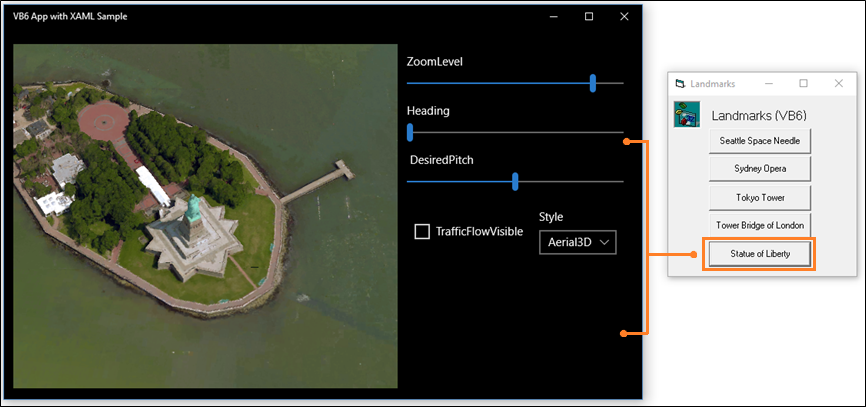
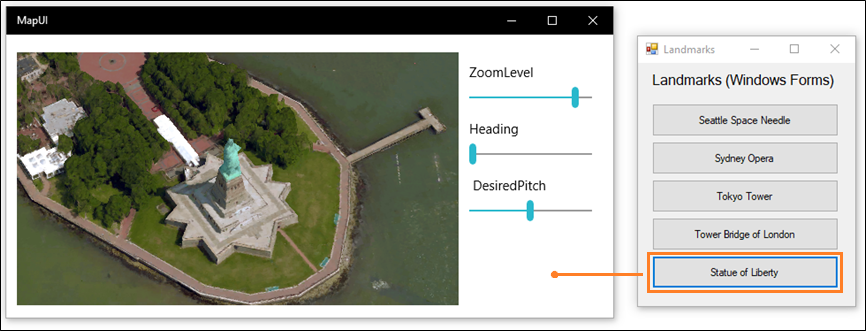
Merged PR 8934: Clarifying the XAML UI scenario by creating a  new sample and updating the guide

diff --git a/windows-apps-src/porting/desktop-to-uwp-extend.md b/windows-apps-src/porting/desktop-to-uwp-extend.md
@@ -4,7 +4,7 @@ Description: Extend your desktop application with Windows UIs and components
 Search.Product: eADQiWindows 10XVcnh
 title: Extend your desktop application with Windows UIs and components
 ms.author: normesta
-ms.date: 03/22/2018
+ms.date: 06/08/2018
 ms.topic: article
 ms.prod: windows
 ms.technology: uwp
@@ -22,6 +22,8 @@ In many cases you can call UWP APIs directly from your desktop application, so b
 >This guide assumes that you've created a Windows app package for your desktop application by using the Desktop Bridge. If you haven't yet done this, see [Desktop Bridge](desktop-to-uwp-root.md).
 
 If you're ready, let's start.
+
+<a id="setup" />
 
 ## First, setup your Solution
 
@@ -73,27 +75,63 @@ As part of your application flow, you can incorporate modern XAML-based user int
 
 For example, with a small amount of XAML markup, you can give users with powerful map-related visualization features.
 
-This image shows a VB6 application that opens a XAML-based modern UI that contains a map control.
+This image shows a Windows Forms application that opens a XAML-based modern UI that contains a map control.
 
 ![adaptive-design](images/desktop-to-uwp/extend-xaml-ui.png)
-
-### Have a closer look at this app
-
-:heavy_check_mark: [Get the app](https://www.microsoft.com/en-us/store/p/vb6-app-with-xaml-sample/9n191ncxf2f6)
-
-:heavy_check_mark: [Browse the code](https://github.com/Microsoft/DesktopBridgeToUWP-Samples/tree/master/Samples/VB6withXaml)
 
 ### The design pattern
 
 To show a XAML-based UI, do these things:
 
-:one: [Add a protocol extension to that project](#protocol)
+:one: [Setup your Solution](#solution-setup)
 
-:two: [Start the UWP app from your desktop app](#start)
+:two: [Create a XAML UI](#xaml-UI)
 
-:three: [In the UWP project, show the page that you want](#parse)
+:three: [Add a protocol extension to the UWP project](#protocol)
 
-<a id="protocol" />
+:four: [Start the UWP app from your desktop app](#start)
+
+:five: [In the UWP project, show the page that you want](#parse)
+
+<a id="solution-setup" />
+
+### Setup your Solution
+
+For general guidance on how to set your solution up, see the [First, setup your Solution](#setup) section at the beginning of this guide.
+
+Your solution would look something like this:
+
+![XAML UI Solution](images/desktop-to-uwp/xaml-ui-solution.png)
+
+In this example, the Windows Forms project is named **Landmarks** and the UWP project that contains the XAML UI is named **MapUI**.
+
+<a id="xaml-UI" />
+
+### Create a XAML UI
+
+Add a XAML UI to your UWP project. Here's the XAML for a basic map.
+
+```xml
+<Grid Background="{ThemeResource ApplicationPageBackgroundThemeBrush}" Margin="12,20,12,14">
+    <Grid.ColumnDefinitions>
+        <ColumnDefinition Width="Auto"/>
+        <ColumnDefinition Width="*"/>
+    </Grid.ColumnDefinitions>
+    <maps:MapControl x:Name="myMap" Grid.Column="0" Width="500" Height="500"
+                     ZoomLevel="{Binding ElementName=zoomSlider,Path=Value, Mode=TwoWay}"
+                     Heading="{Binding ElementName=headingSlider,Path=Value, Mode=TwoWay}"
+                     DesiredPitch="{Binding ElementName=desiredPitchSlider,Path=Value, Mode=TwoWay}"    
+                     HorizontalAlignment="Left"               
+                     MapServiceToken="<Your Key Goes Here" />
+    <Grid Grid.Column="1" Margin="12">
+        <StackPanel>
+            <Slider Minimum="1" Maximum="20" Header="ZoomLevel" Name="zoomSlider" Value="17.5"/>
+            <Slider Minimum="0" Maximum="360" Header="Heading" Name="headingSlider" Value="0"/>
+            <Slider Minimum="0" Maximum="64" Header=" DesiredPitch" Name="desiredPitchSlider" Value="32"/>
+        </StackPanel>
+    </Grid>
+</Grid>
+```
 
 ### Add a protocol extension
 
@@ -101,13 +139,10 @@ In **Solution Explorer**, open the **package.appxmanifest** file of the UWP proj
 
 ```xml
 <Extensions>
-      <uap:Extension
-          Category="windows.protocol"
-          Executable="MapUI.exe"
-          EntryPoint=" MapUI.App">
-        <uap:Protocol Name="desktopbridgemapsample" />
-      </uap:Extension>
-    </Extensions>     
+  <uap:Extension Category="windows.protocol" Executable="MapUI.exe" EntryPoint="MapUI.App">
+    <uap:Protocol Name="xamluidemo" />
+  </uap:Extension>
+</Extensions>    
 ```
 
 Give the protocol a name, provide the name of the executable produced by the UWP project, and the name of the entry point class.
@@ -115,8 +150,6 @@ Give the protocol a name, provide the name of the executable produced by the UWP
 You can also open the **package.appxmanifest** in the designer, choose the **Declarations** tab, and then add the extension there.
 
 ![declarations-tab](images/desktop-to-uwp/protocol-properties.png)
-
-
 
 > [!NOTE]
 > Map controls download data from the internet so if you use one, you'll have to add the "internet client" capability to your manifest as well.
@@ -127,61 +160,23 @@ You can also open the **package.appxmanifest** in the designer, choose the **Dec
 
 First, from your desktop application, create a [Uri](https://msdn.microsoft.com/library/system.uri.aspx) that includes the protocol name and any parameters you want to pass into the UWP app. Then, call the [LaunchUriAsync](https://docs.microsoft.com/uwp/api/windows.system.launcher.launchuriasync) method.
 
-Here's a basic example in C#.
-
 ```csharp
 
-private async void showMap(double lat, double lon)
+private void Statue_Of_Liberty_Click(object sender, EventArgs e)
 {
-    string str = "desktopbridgemapsample://";
+    ShowMap(40.689247, -74.044502);
+}
+
+private async void ShowMap(double lat, double lon)
+{
+    string str = "xamluidemo://";
 
     Uri uri = new Uri(str + "location?lat=" +
         lat.ToString() + "&?lon=" + lon.ToString());
 
     var success = await Windows.System.Launcher.LaunchUriAsync(uri);
 
-    if (success)
-    {
-        // URI launched
-    }
-    else
-    {
-        // URI launch failed
-    }
 }
-```
-In our sample, we're doing something a bit more indirect. We've wrapped the call in a VB6-callable interop function named ``LaunchMap``. That function is written by using C++.
-
-Here's the VB block:
-
-```VB
-Private Declare Function LaunchMap Lib "UWPWrappers.dll" _
-  (ByVal lat As Double, ByVal lon As Double) As Boolean
- 
-Private Sub EiffelTower_Click()
-    LaunchMap 48.858222, 2.2945
-End Sub
-```
-
-Here's the C++ function:
-
-```C++
-
-DllExport bool __stdcall LaunchMap(double lat, double lon)
-{
-  try
-  {
-    String ^str = ref new String(L"desktopbridgemapsample://");
-    Uri ^uri = ref new Uri(
-      str + L"location?lat=" + lat.ToString() + L"&?lon=" + lon.ToString());
- 
-    // now launch the UWP component
-    Launcher::LaunchUriAsync(uri);
-  }
-  catch (Exception^ ex) { return false; }
-  return true;
-}
-
 ```
 
 <a id="parse" />
@@ -190,25 +185,54 @@ DllExport bool __stdcall LaunchMap(double lat, double lon)
 
 In the **App** class of your UWP project, override the **OnActivated** event handler. If the app is activated by your protocol, parse the parameters and then open the page that you want.
 
-```C++
-void App::OnActivated(Windows::ApplicationModel::Activation::IActivatedEventArgs^ e)
+```csharp
+protected override void OnActivated(Windows.ApplicationModel.Activation.IActivatedEventArgs e)
 {
-  if (e->Kind == ActivationKind::Protocol)
-  {
-    ProtocolActivatedEventArgs^ protocolArgs = (ProtocolActivatedEventArgs^)e;
-    Uri ^uri = protocolArgs->Uri;
-    if (uri->SchemeName == "desktopbridgemapsample")
-    {
-      Frame ^rootFrame = ref new Frame();
-      Window::Current->Content = rootFrame;
-      rootFrame->Navigate(TypeName(MainPage::typeid), uri->Query);
-      Window::Current->Activate();
-    }
-  }
+    if (e.Kind == ActivationKind.Protocol)
+    {
+        ProtocolActivatedEventArgs protocolArgs = (ProtocolActivatedEventArgs)e;
+        Uri uri = protocolArgs.Uri;
+        if (uri.Scheme == "xamluidemo")
+        {
+            Frame rootFrame = new Frame();
+            Window.Current.Content = rootFrame;
+            rootFrame.Navigate(typeof(MainPage), uri.Query);
+            Window.Current.Activate();
+        }
+    }
 }
 ```
 
+Override the ``OnNavigatedTo`` method to use the parameters passed into the page. In this case, we'll use the latitude and longitude that were passed into this page to show a location in a map.
+
+```csharp
+protected override void OnNavigatedTo(NavigationEventArgs e)
+ {
+     if (e.Parameter != null)
+     {
+         WwwFormUrlDecoder decoder = new WwwFormUrlDecoder(e.Parameter.ToString());
+
+         double lat = Convert.ToDouble(decoder[0].Value);
+         double lon = Convert.ToDouble(decoder[1].Value);
+
+         BasicGeoposition pos = new BasicGeoposition();
+
+         pos.Latitude = lat;
+         pos.Longitude = lon;
+
+         myMap.Center = new Geopoint(pos);
+
+         myMap.Style = MapStyle.Aerial3D;
+
+     }
+
+     base.OnNavigatedTo(e);
+ }
+```
+
 ### Similar Samples
+
+[Adding a UWP XAML user experience to VB6 Application](https://github.com/Microsoft/DesktopBridgeToUWP-Samples/tree/master/Samples/VB6withXaml)
 
 [Northwind sample: End-to-end example for UWA UI & Win32 legacy code](https://github.com/Microsoft/DesktopBridgeToUWP-Samples/tree/master/Samples/NorthwindSample)
 
